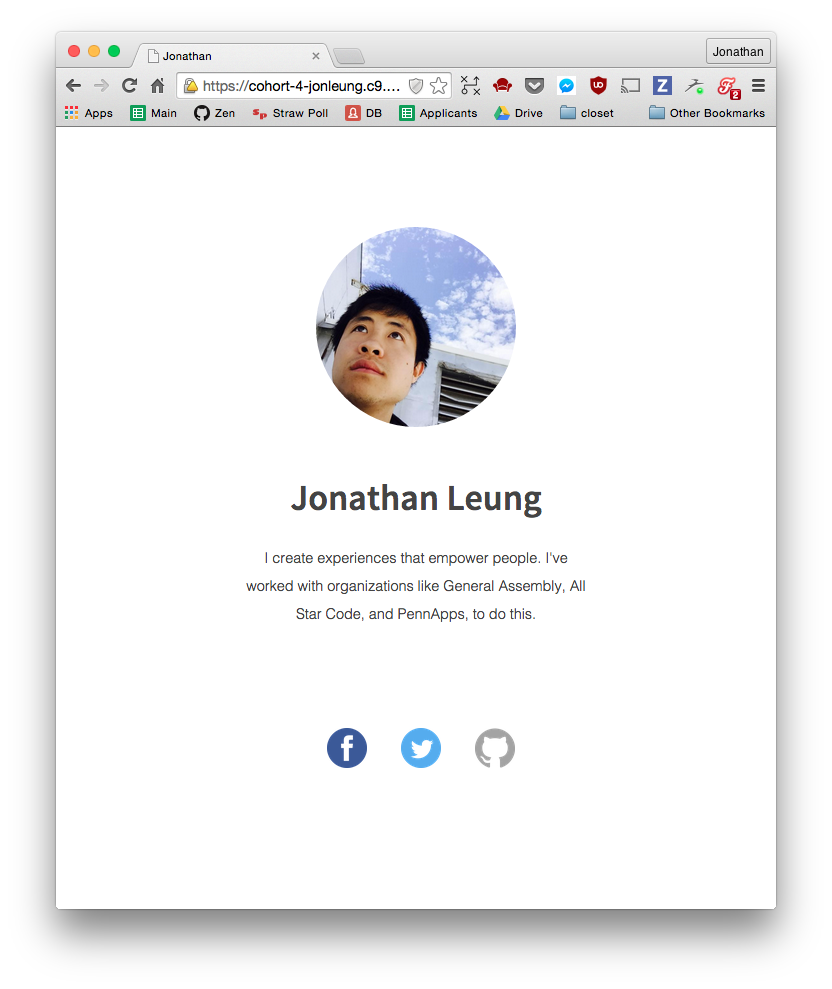
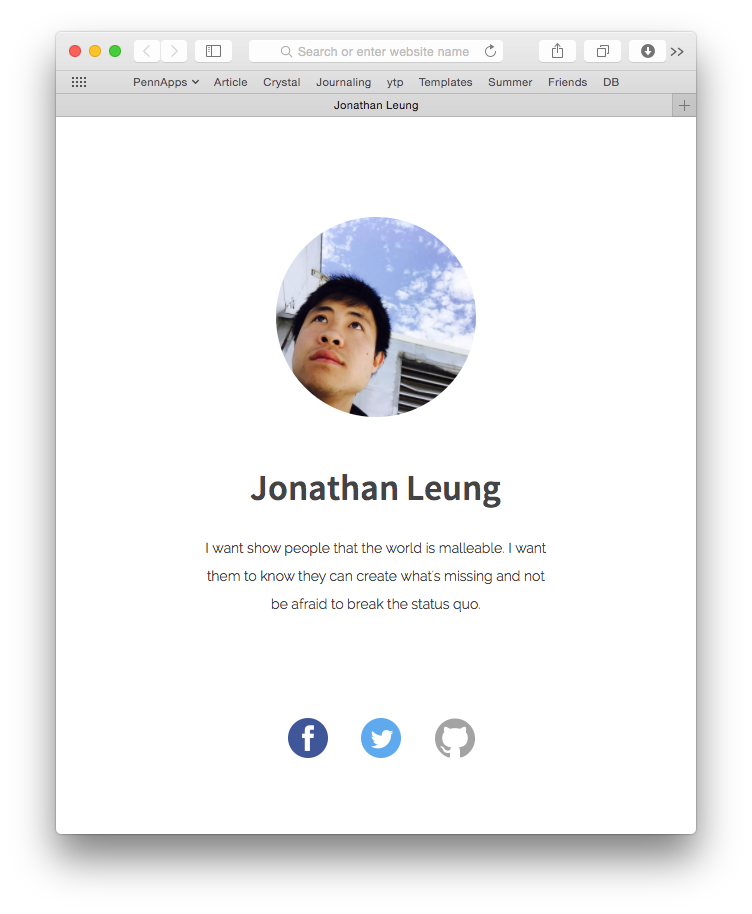
add new screenshot of final demo

diff --git a/cohort_4/playbook/workshops/portfolio/src/final_portfolio/index.html b/cohort_4/playbook/workshops/portfolio/src/final_portfolio/index.html
@@ -3,7 +3,7 @@
   <head>
     <meta name="viewport" content="width=device-width, initial-scale=1">
     
-    <title>Jonathan</title>
+    <title>Jonathan Leung</title>
     <link rel="stylesheet" href="main.css" type="text/css" />
     <link href='http://fonts.googleapis.com/css?family=Raleway:500,600,700,100,800,900,400,200,300' rel='stylesheet' type='text/css'>
     <link href='https://fonts.googleapis.com/css?family=Source+Sans+Pro:400,600,700,900' rel='stylesheet' type='text/css'>
@@ -17,17 +17,17 @@
       <h1 class="name"> Jonathan Leung </h1>
   
       <!--DESCRIPTION PARAGRAPHS-->
-      <p class="description"> I create experiences that empower people. I've worked with organizations like General Assembly, All Star Code, and PennApps, to do this. </p>
+      <p class="description">I want show people that the world is malleable. I want them to know they can create what's missing and not be afraid to break the status quo.</p>
       
       <!--Images found on http://iconmonstr.com/-->
       <div class="links">
-        <a href="https://twitter.com/AleksFaure" target="_blank">
+        <a href="https://twitter.com/jonathanjleung" target="_blank">
           <img src="img/facebook.png" class="icon">
         </a>
-        <a href="http://www.linkedin.com/in/aleksfaure" target="_blank" >
+        <a href="https://www.linkedin.com/in/jonathanjleung" target="_blank" >
           <img src="img/twitter.png" class="icon">
         </a>
-        <a href="http://dribbble.com/AleksFaure" target="_blank">
+        <a href="http://github.com/jonleung" target="_blank">
           <img src="img/github.png" class="icon" class="icon">
         </a>
       </div>
